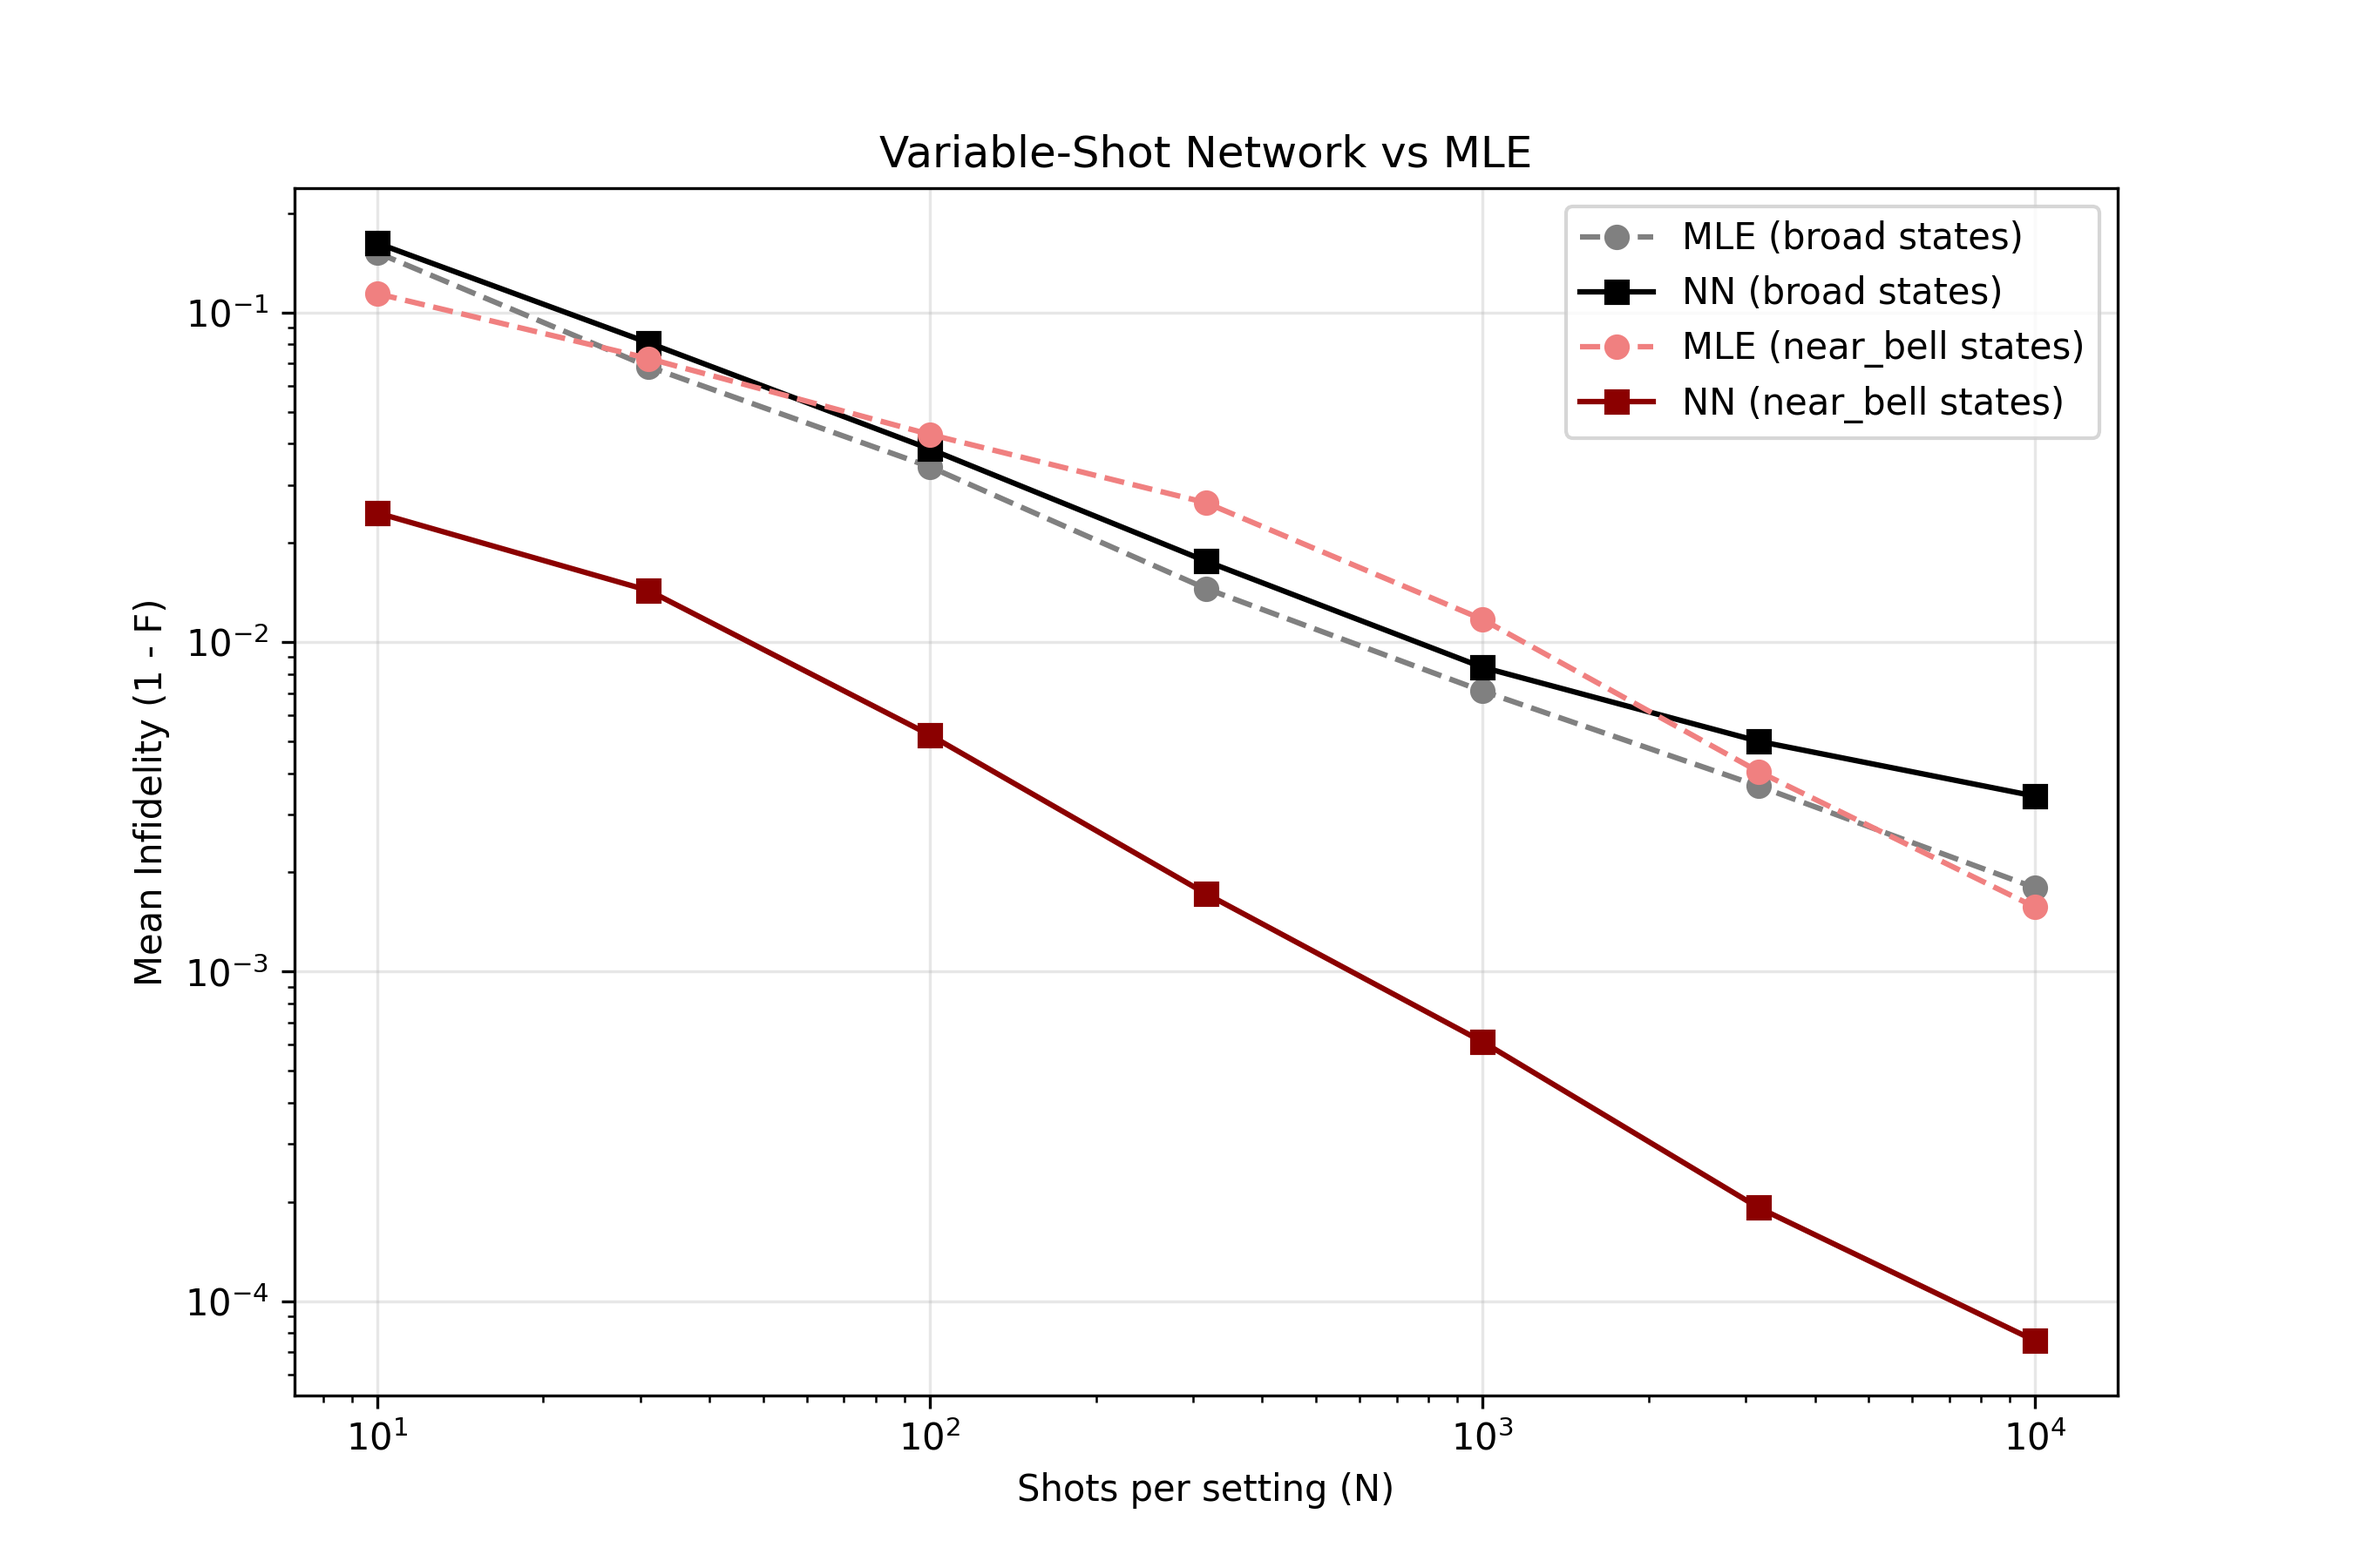
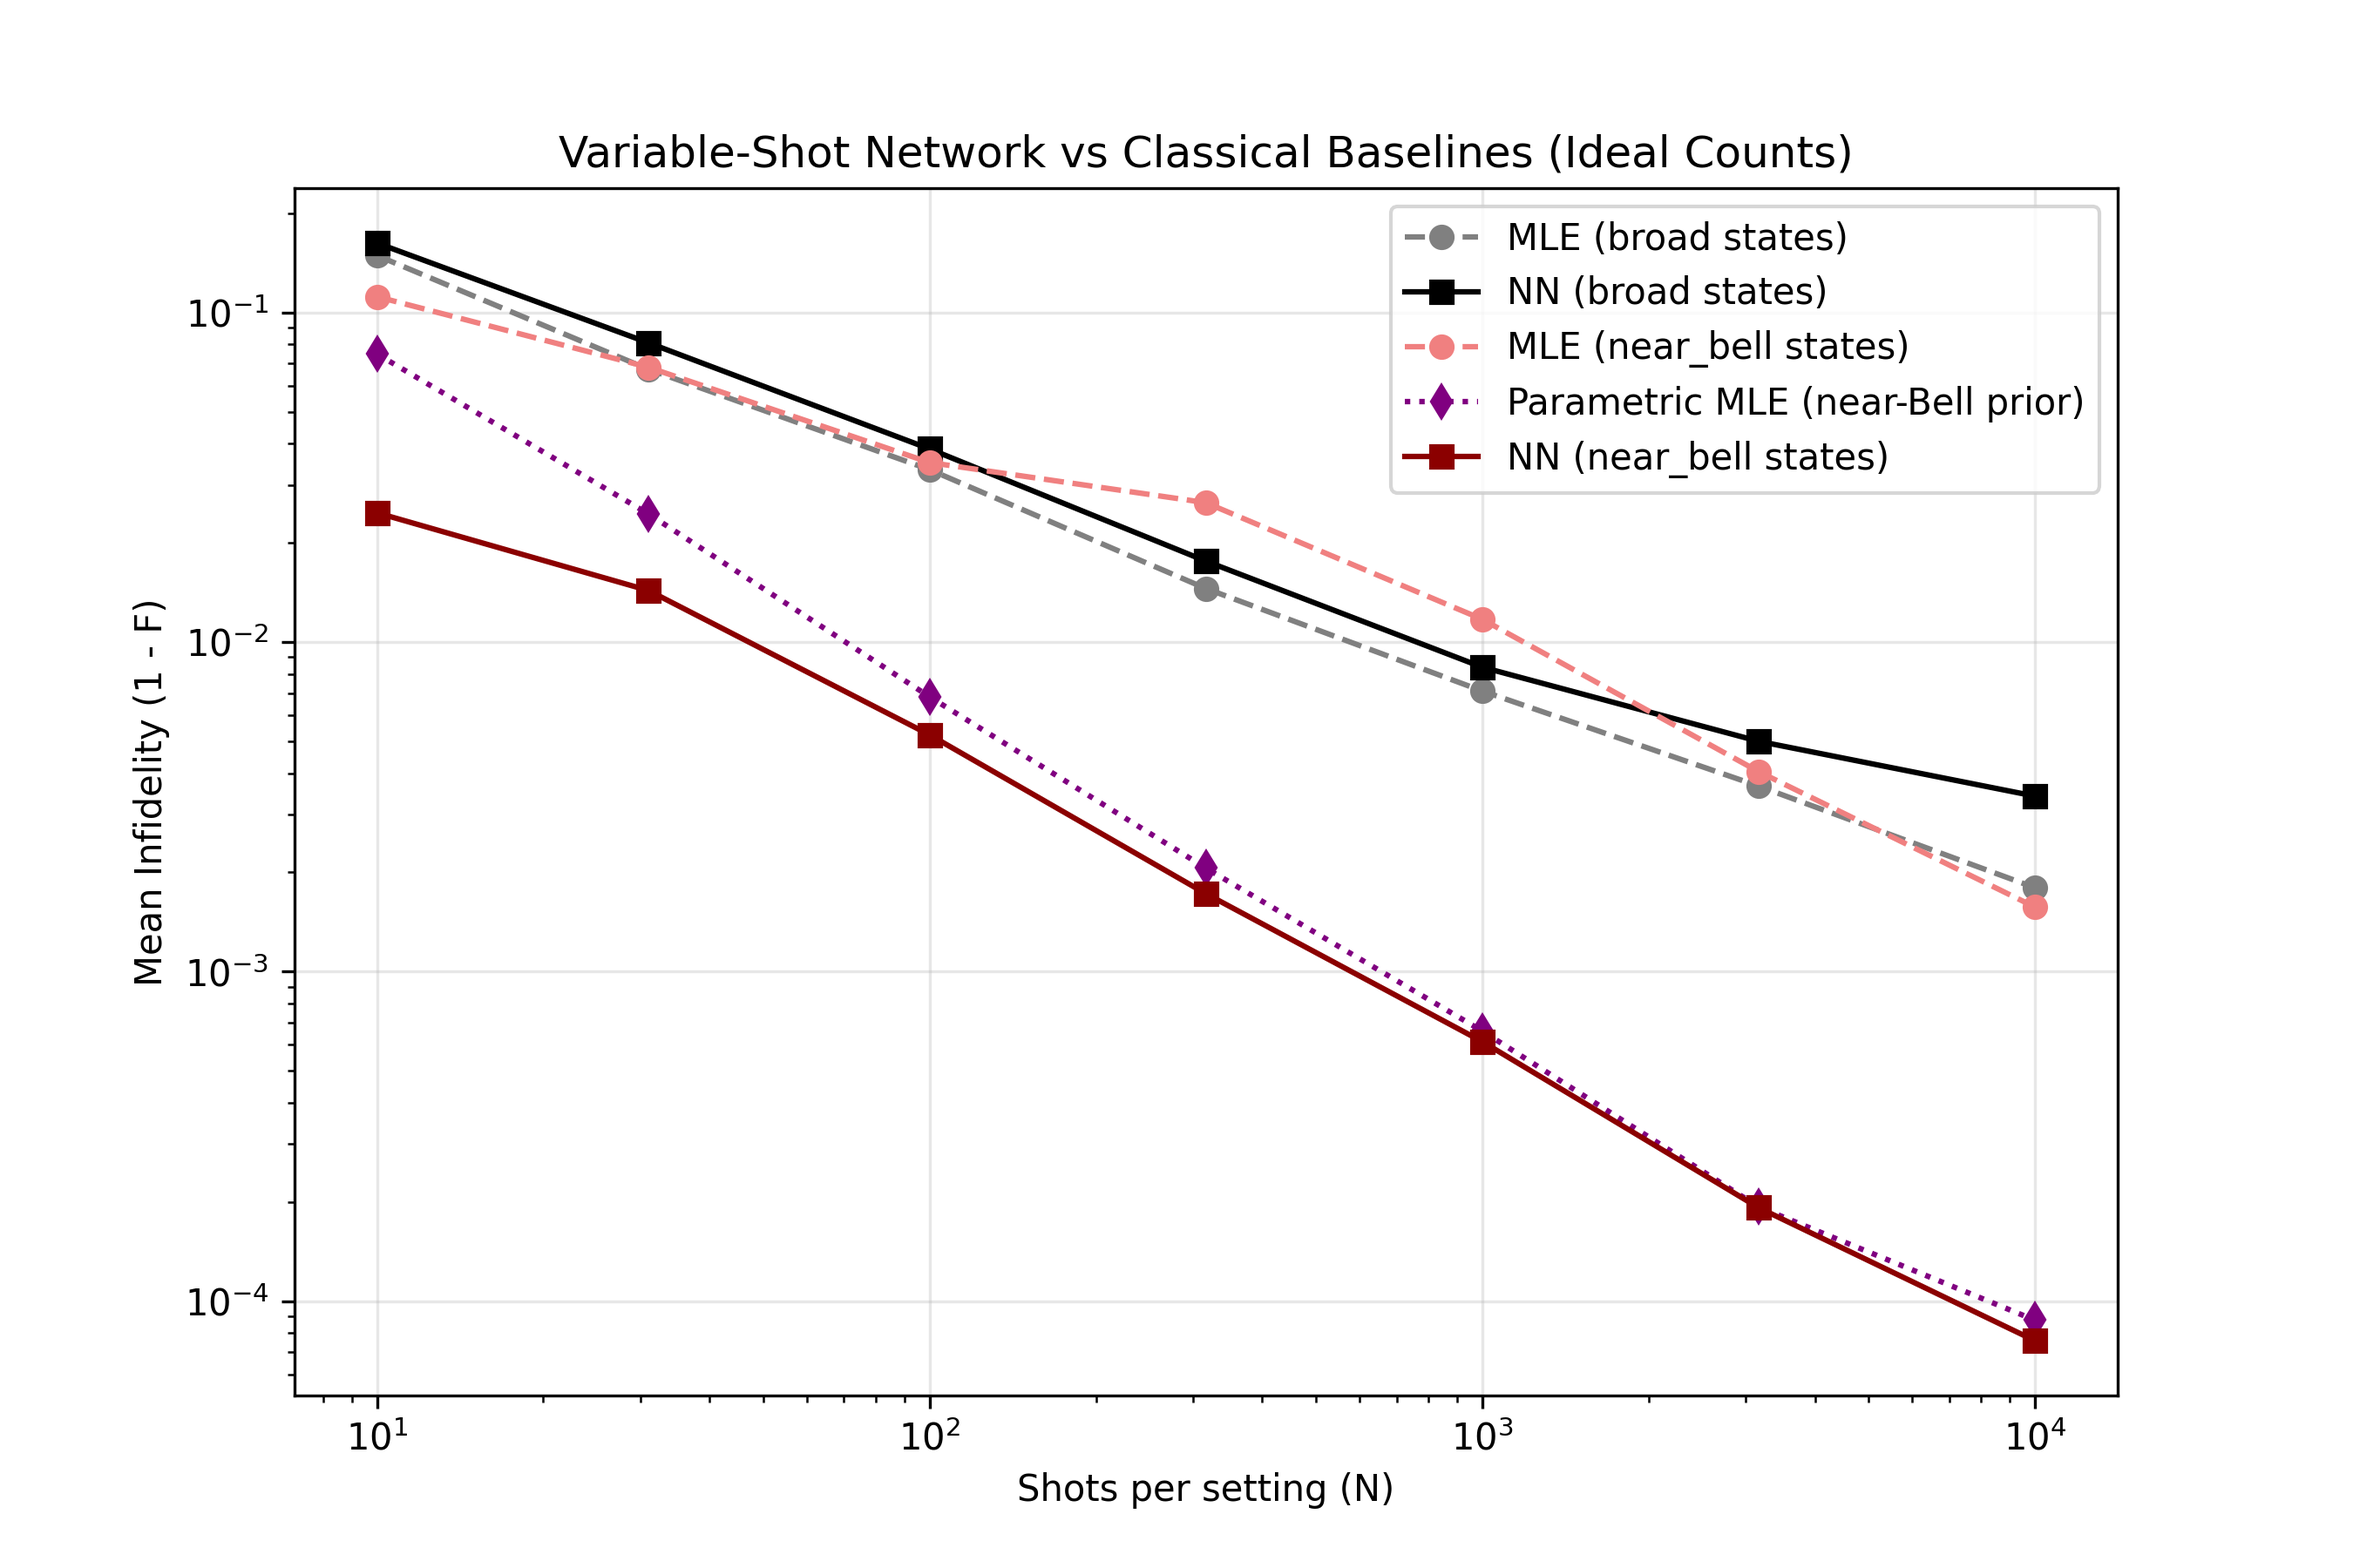
Added parametrised mle to cross eval

diff --git a/tomography/variable_cross_eval.py b/tomography/variable_cross_eval.py
@@ -7,7 +7,7 @@ from tqdm import tqdm
 from model.tomography_model import NeuralTomography
 from utils.states import fidelity, measurement_operators, sample_counts
 from utils.ensembles import random_broad_state, random_near_bell_state
-from tomography.reconstruct import mle
+from tomography.reconstruct import mle, parametric_mle
 
 def load_network(path, device):
     ckpt = torch.load(path, map_location=device)
@@ -27,11 +27,17 @@ def main():
     n_states = 250  # Lowered slightly to speed up the MLE sweep
     
     # Path depends on your exact N_TRAIN and EPOCHS shell variables
-    ckpt_dir = "checkpoints/neural_tomo_variable_gamma_0.5_600000_100ep"
+    ckpt_dir = "checkpoints/neural_tomo_variable"
     broad_model = load_network(f"{ckpt_dir}/neural_tomo_broad.pth", device)
     bell_model = load_network(f"{ckpt_dir}/neural_tomo_near_bell.pth", device)
     
-    results = {"MLE (broad)": [], "NN (broad)": [], "MLE (near_bell)": [], "NN (near_bell)": []}
+    results = {
+        "MLE (broad)": [], 
+        "NN (broad)": [], 
+        "MLE (near_bell)": [], 
+        "NN (near_bell)": [],
+        "Parametric MLE (near_bell)": []
+    }
                
     for shots in shot_counts:
         print(f"\nEvaluating at N = {shots} shots...")
@@ -44,7 +50,9 @@ def main():
             counts = sample_counts(rho, E, shots, rng)
             freq = counts / shots
             
-            mle_err.append(1 - fidelity(mle(counts, E, iters=1000), rho))
+            # Using 50 iterations at low shots to match the regularization applied in end_to_end_eval
+            iters = 50 if shots <= 100 else 1000
+            mle_err.append(1 - fidelity(mle(counts, E, iters=iters), rho))
             
             x = np.zeros(37, dtype=np.float32)
             x[:36] = freq.flatten()
@@ -58,12 +66,14 @@ def main():
         
         # 2. Near-Bell ensemble evaluation
         bell_states = [random_near_bell_state(rng) for _ in range(n_states)]
-        mle_err, nn_err = [], []
+        mle_err, nn_err, param_err = [], [], []
         for rho in tqdm(bell_states, desc="Near-Bell states"):
             counts = sample_counts(rho, E, shots, rng)
             freq = counts / shots
             
-            mle_err.append(1 - fidelity(mle(counts, E, iters=1000), rho))
+            iters = 50 if shots <= 100 else 1000
+            mle_err.append(1 - fidelity(mle(counts, E, iters=iters), rho))
+            param_err.append(1 - fidelity(parametric_mle(counts, E), rho))
             
             x = np.zeros(37, dtype=np.float32)
             x[:36] = freq.flatten()
@@ -73,6 +83,7 @@ def main():
             nn_err.append(1 - fidelity(rho_nn, rho))
             
         results["MLE (near_bell)"].append(np.mean(mle_err))
+        results["Parametric MLE (near_bell)"].append(np.mean(param_err))
         results["NN (near_bell)"].append(np.mean(nn_err))
         
     plt.figure(figsize=(9, 6))
@@ -80,17 +91,18 @@ def main():
     plt.plot(shot_counts, results["NN (broad)"], 's-', color='black', label='NN (broad states)')
     
     plt.plot(shot_counts, results["MLE (near_bell)"], 'o--', color='lightcoral', label='MLE (near_bell states)')
+    plt.plot(shot_counts, results["Parametric MLE (near_bell)"], 'd:', color='purple', label='Parametric MLE (near-Bell prior)')
     plt.plot(shot_counts, results["NN (near_bell)"], 's-', color='darkred', label='NN (near_bell states)')
     
     plt.xscale('log')
     plt.yscale('log')
     plt.xlabel('Shots per setting (N)')
     plt.ylabel('Mean Infidelity (1 - F)')
-    plt.title('Variable-Shot Network vs MLE')
+    plt.title('Variable-Shot Network vs Classical Baselines (Ideal Counts)')
     plt.legend()
     plt.grid(True, alpha=0.3)
-    plt.savefig('results/figures/variable_shot_eval_n_hidden_264_n_layers_4_gamma_0.5.png', dpi=300)
-    print("\nSaved plot to variable_shot_eval_n_hidden_264_n_layers_4_gamma_0.5.png")
+    plt.savefig('results/figures/variable_shot_eval', dpi=300)
+    print("\nSaved plot to results/figures/variable_shot_eval.png")
 
 if __name__ == "__main__":
     main()

diff --git a/tomography/reconstruct.py b/tomography/reconstruct.py
@@ -37,7 +37,9 @@ def parametric_mle(counts, E_eff):
         return -np.sum(counts * np.log(p))
     
     init = np.zeros(7)
+    init[6] = 0.01  # Initialize mu at 1% to stay strictly inside the (0, 1) bound
     bounds = [(-np.pi, np.pi)] * 6 + [(0, 1)]
+    
     res = opt.minimize(nll, init, bounds=bounds, method='L-BFGS-B')
     return parametric_near_bell(res.x)
 

diff --git a/README.md b/README.md
@@ -27,6 +27,13 @@ The QuTiP simulator implements $T_1$ decay, dispersive cavity response, and mult
 - **Bell states:** MLE falls as $1/N$ and reaches roughly $10^{-6}$ at $3 \times 10^5$ shots. Linear inversion falls as $1/\sqrt{N}$.
 - **Random pure and mixed states:** Both estimators scale roughly as $1/\sqrt{N}$ (pure) and $1/N$ (mixed) at high shot counts.
 
+### Neural Network vs. Classical Solvers (Ideal Counts)
+<img src="results/figures/variable_shot_eval.png" alt="Variable-shot Neural Network vs MLE" width="600">
+
+- **General Prior (`broad`):** Underperforms generic MLE in the low-shot regime. The conditional-mean bias of MSE loss forces the broad network to predict the maximally mixed state ($I/4$) when finite-shot data is highly ambiguous.
+- **Localized Prior (`near_bell`):** Outperforms generic Maximum Likelihood Estimation at low shot counts by leveraging the learned manifold of the target physical boundary.
+- **Parametric Baseline Validation:** When compared against an exact 7-parameter Parametric MLE bound on near-Bell states, the network matches the classical optimizer's asymptotic fidelity ($\sim 2.7 \times 10^{-4}$ at 10,000 shots). The neural network operates as an amortized projector onto the generation manifold, achieving parity with the exact mathematical prior.
+
 ### Readout Chain & Classifier Benchmarking
 <img src="results/figures/readout_tomography.png" alt="Tomography through the readout chain" width="800">
 
